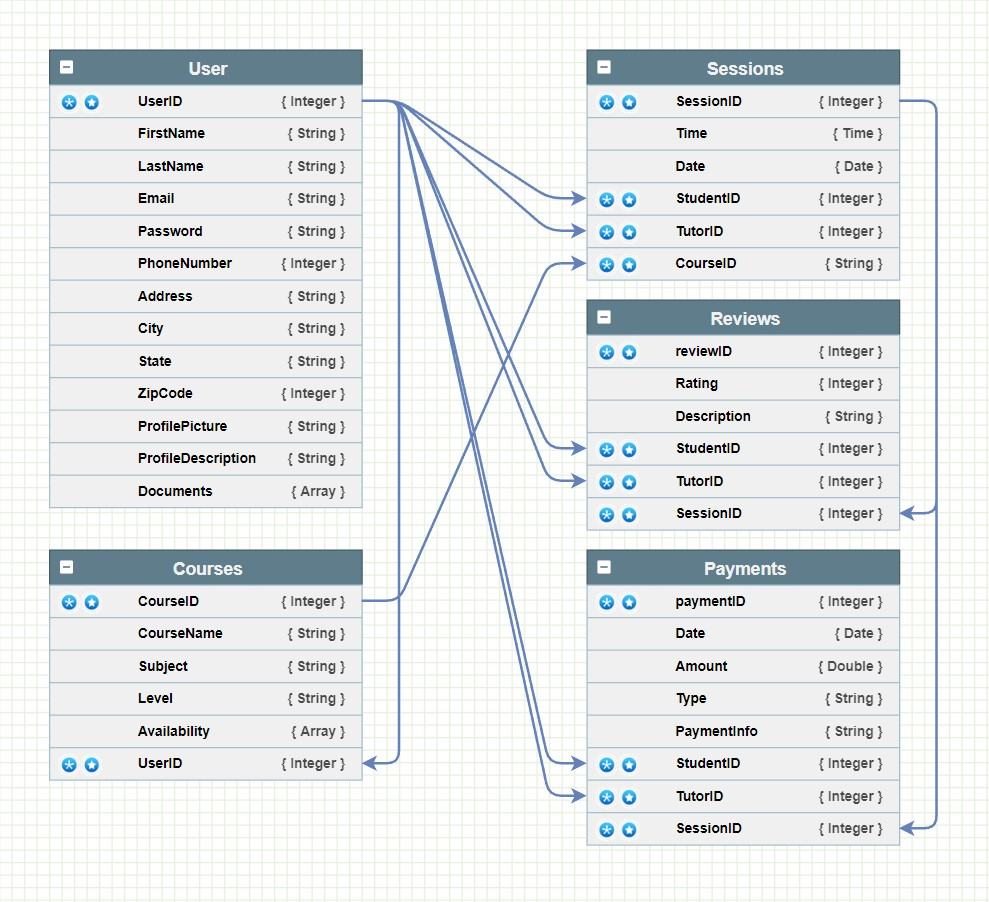
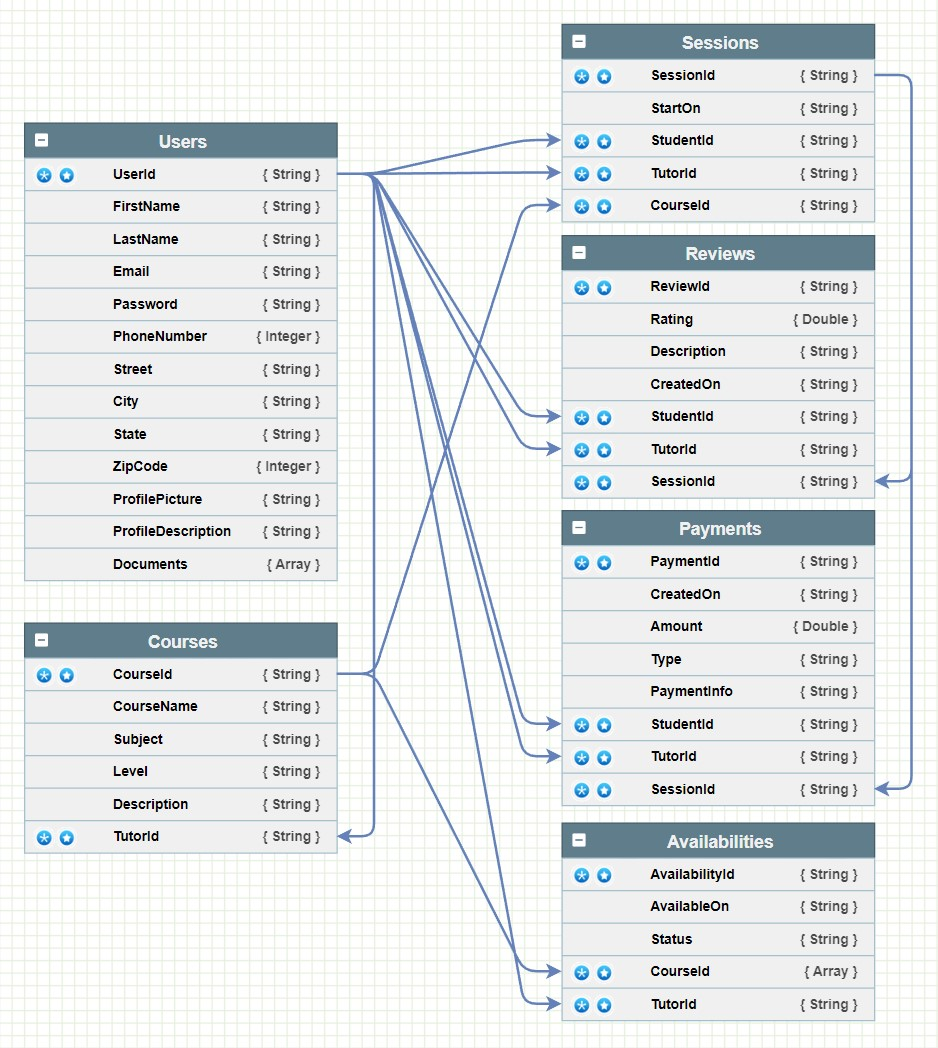
Created Database README

Changed region(s): [[0.0, 0.0, 0.9893, 0.9933], [0.4638, 0.7761, 0.4947, 0.8071]]

diff --git a/docs/database/README.md b/docs/database/README.md
@@ -1,2 +1,180 @@
 # Database
-![](https://github.com/albonkey/tutor_scheduling/blob/master/docs/images/Database.png)
+
+## Introduction
+
+Amazon DynamoDB is a fully managed NoSQL database service that provides fast and predictable performance with seamless scalability. DynamoDB lets you offload the administrative burdens of operating and scaling a distributed database so that you don't have to worry about hardware provisioning, setup and configuration, replication, software patching, or cluster scaling. DynamoDB also offers encryption at rest, which eliminates the operational burden and complexity involved in protecting sensitive data.
+
+## Core Components
+
+* **Tables** - Similar to other database systems, DynamoDB stores data in tables. A *table* is a collection of data.
+
+* **Items** - Each table contains zero or more items. An *item* is a group of attributes that is uniquely identifiable among all of the other items.
+
+* **Attributes** - Each item is composed of one or more attributes. An *attribute* is a fundamental data element, something that does not need to be broken down any further.
+
+* **Partition key** - A simple primary key, composed of one attribute known as the *partition* key.
+
+* **Partition key and sort key** - Referred to as a *composite primary* key, this type of key is composed of two attributes. The first attribute is the *partition key*, and the second attribute is the *sort key*.
+
+[Amazon DynamoDB Documentation](https://docs.aws.amazon.com/amazondynamodb/latest/developerguide/Introduction.html)
+
+## Creating a Table
+
+1. Create table
+2. Enter desired name for the table, partition key (datatype) and sort key (datatype)
+![](https://github.com/albonkey/tutor_scheduling/blob/master/docs/images/Create_Table_1.jpg)
+3. Leave the table setting to defaults (You can modify these later)
+4. Enter `tutorhub` as key for tags
+![](https://github.com/albonkey/tutor_scheduling/blob/master/docs/images/Create_Table_2.jpg)
+5. Create table
+
+## Creating an item
+
+1. Select the table
+2. Explore table items
+3. Create item
+4. Click on JSON view and turn off "View DynamoDB JSON"
+5. Insert the JSON format data
+6. Create item
+![](https://github.com/albonkey/tutor_scheduling/blob/master/docs/images/Create_Item.jpg)
+
+
+## Design
+
+The database consists of 6 collections as shown below
+
+![](https://github.com/albonkey/tutor_scheduling/blob/master/docs/images/Database.jpg)
+
+
+## Calling DynamoDB from Lambda
+
+
+The easiest way to interact with DynamoDB from Lambda in a Node.js environment is to use the [DynamoDB Document Client](https://docs.aws.amazon.com/AWSJavaScriptSDK/latest/AWS/DynamoDB/DocumentClient.html). 
+
+### Creating an item in DynamoDB from Lambda
+
+```javascript
+const AWS = require('aws-sdk');
+const docClient = new AWS.DynamoDB.DocumentClient();
+
+const params = {
+  TableName : 'your-table-name',
+  /* Item properties will depend on your application concerns */
+  Item: {
+     id: '12345',
+     price: 100.00
+  }
+}
+
+async function createItem(){
+  try {
+    await docClient.put(params).promise();
+  } catch (err) {
+    return err;
+  }
+}
+
+exports.handler = async (event) => {
+  try {
+    await createItem()
+    return { body: 'Successfully created item!' }
+  } catch (err) {
+    return { error: err }
+  }
+};
+```
+
+### Getting an item by primary key in DynamoDB from Lambda
+
+```javascript
+const AWS = require('aws-sdk');
+const docClient = new AWS.DynamoDB.DocumentClient();
+
+const params = {
+  TableName : 'your-table-name',
+  /* Item properties will depend on your application concerns */
+  Key: {
+    id: '12345'
+  }
+}
+
+async function getItem(){
+  try {
+    const data = await docClient.get(params).promise()
+    return data
+  } catch (err) {
+    return err
+  }
+}
+
+exports.handler = async (event, context) => {
+  try {
+    const data = await getItem()
+    return { body: JSON.stringify(data) }
+  } catch (err) {
+    return { error: err }
+  }
+}
+```
+
+### Scanning a table
+
+```javascript
+const AWS = require('aws-sdk');
+const docClient = new AWS.DynamoDB.DocumentClient();
+
+const params = {
+  TableName : 'your-table-name'
+}
+
+async function listItems(){
+  try {
+    const data = await docClient.scan(params).promise()
+    return data
+  } catch (err) {
+    return err
+  }
+}
+
+exports.handler = async (event, context) => {
+  try {
+    const data = await listItems()
+    return { body: JSON.stringify(data) }
+  } catch (err) {
+    return { error: err }
+  }
+}
+```
+
+### Querying a table
+
+```javascript
+const AWS = require('aws-sdk');
+const docClient = new AWS.DynamoDB.DocumentClient();
+
+var params = {
+  TableName: 'your-table-name',
+  IndexName: 'some-index',
+  KeyConditionExpression: '#name = :value',
+  ExpressionAttributeValues: { ':value': 'shoes' },
+  ExpressionAttributeNames: { '#name': 'name' }
+}
+
+async function queryItems(){
+  try {
+    const data = await docClient.query(params).promise()
+    return data
+  } catch (err) {
+    return err
+  }
+}
+
+exports.handler = async (event, context) => {
+  try {
+    const data = await queryItems()
+    return { body: JSON.stringify(data) }
+  } catch (err) {
+    return { error: err }
+  }
+}
+```
